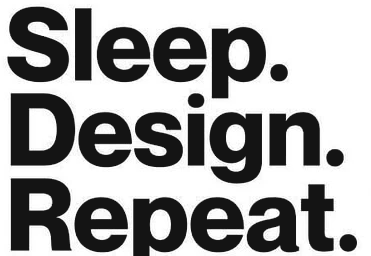
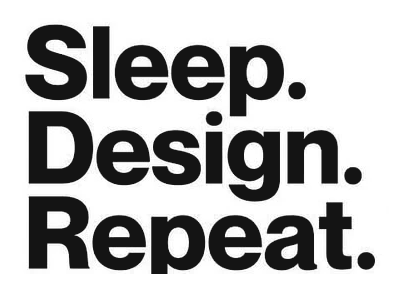
Tampere design page: white sticker borders and peel on hover
Bake a white die-cut edge into each sticker and add a corner peel:
the face loses its corner along a 45deg crease and a mirrored pale
back folds over it. Slight curl at rest, peels further on hover and
while dragging.

Claude-Session: https://claude.ai/code/session_01VkNXkYhNUFVsheW2ZXUG2V

diff --git a/tampere-design-page/index.html b/tampere-design-page/index.html
@@ -130,20 +130,34 @@ body { font: 400 17px/1.55 var(--f-body); -webkit-font-smoothing: antialiased; }
 
 /* scattered things */
 .thing { position: absolute; z-index: 1; }
-/* stickers: cut straight from the reference sheet, so they keep their own colours and outlines */
+/* stickers: cut straight from the reference sheet, with a white die-cut edge.
+   Peel: the face loses its bottom-right corner along a 45deg crease, and a mirrored
+   copy of the sticker (its pale back) is folded over that crease. --d is how far the
+   crease sits from the corner; it grows on hover and while dragging. */
+@property --d { syntax: "<length>"; inherits: true; initial-value: 0px; }
 .sticker {
-  --r: 0deg; --s: 1;
-  display: block; height: auto;
+  --r: 0deg; --s: 1; --d: calc(var(--W) * .09);
+  width: var(--W); height: calc(var(--W) * var(--ratio));
   transform: rotate(var(--r)) scale(var(--s)); transform-origin: center;
-  filter: drop-shadow(0 10px 14px rgba(20,20,20,.14));
-  cursor: grab; touch-action: none; user-select: none; -webkit-user-drag: none;
-  transition: filter .2s;
+  filter: drop-shadow(0 8px 12px rgba(20,20,20,.14));
+  cursor: grab; touch-action: none; user-select: none;
+  transition: --d .45s cubic-bezier(.3,.7,.3,1), filter .2s;
 }
+.sticker:hover, .sticker.dragging { --d: calc(var(--W) * .34); }
 .sticker.dragging { cursor: grabbing; filter: drop-shadow(0 18px 22px rgba(20,20,20,.22)); }
-.sticker.good { --r: 4deg; width: 230px; left: max(24px, 5vw); top: 48px; }
-.sticker.craft { --r: -5deg; width: 170px; left: max(32px, 8vw); bottom: 15%; }
-.sticker.sleep { --r: -3deg; width: 200px; right: max(24px, 7vw); top: 96px; filter: none; }
-.sticker.sleep.dragging { filter: none; }
+.sticker img { position: absolute; inset: 0; width: 100%; height: 100%; -webkit-user-drag: none; pointer-events: none; }
+.sticker .face { clip-path: polygon(0 0, 100% 0, 100% calc(100% - var(--d)), calc(100% - var(--d)) 100%, 0 100%); }
+.sticker .flap-shadow { position: absolute; inset: 0; filter: drop-shadow(-3px -3px 4px rgba(20,20,20,.18)); pointer-events: none; }
+.sticker .flap {
+  position: absolute; inset: 0; transform-origin: 0 0;
+  /* reflect across the crease x + y = W + H - d */
+  transform: translate(calc(var(--W) + var(--W) * var(--ratio) - var(--d)), calc(var(--W) + var(--W) * var(--ratio) - var(--d))) rotate(90deg) scaleX(-1);
+  clip-path: polygon(100% calc(100% - var(--d)), calc(100% - var(--d)) 100%, 100% 100%);
+}
+.sticker .flap img { filter: brightness(0) invert(.94); }
+.sticker.good { --W: 250px; --ratio: calc(372 / 451); --r: 4deg; left: max(24px, 5vw); top: 44px; }
+.sticker.craft { --W: 186px; --ratio: calc(446 / 339); --r: -5deg; left: max(32px, 8vw); bottom: 14%; }
+.sticker.sleep { --W: 222px; --ratio: calc(292 / 407); --r: -3deg; right: max(24px, 7vw); top: 90px; }
 
 /* other cursors */
 .cursor { position: absolute; left: 0; top: 0; z-index: 25; pointer-events: none; will-change: transform; }
@@ -220,9 +234,18 @@ body { font: 400 17px/1.55 var(--f-body); -webkit-font-smoothing: antialiased; }
 
 <header class="canvas" id="canvas">
 
-  <img class="thing sticker good" src="assets/good-design-only.webp" width="419" height="340" alt="" draggable="false">
-  <img class="thing sticker craft" src="assets/crafting-experience.webp" width="307" height="414" alt="" draggable="false">
-  <img class="thing sticker sleep" src="assets/sleep-design-repeat.webp" width="371" height="256" alt="" draggable="false">
+  <div class="thing sticker good" aria-hidden="true">
+    <img class="face" src="assets/good-design-only.webp" alt="" draggable="false">
+    <div class="flap-shadow"><div class="flap"><img src="assets/good-design-only.webp" alt="" draggable="false"></div></div>
+  </div>
+  <div class="thing sticker craft" aria-hidden="true">
+    <img class="face" src="assets/crafting-experience.webp" alt="" draggable="false">
+    <div class="flap-shadow"><div class="flap"><img src="assets/crafting-experience.webp" alt="" draggable="false"></div></div>
+  </div>
+  <div class="thing sticker sleep" aria-hidden="true">
+    <img class="face" src="assets/sleep-design-repeat.webp" alt="" draggable="false">
+    <div class="flap-shadow"><div class="flap"><img src="assets/sleep-design-repeat.webp" alt="" draggable="false"></div></div>
+  </div>
 
   <div class="hero" id="hero">
     <h1 class="title"><span class="slot pre" id="slot"><span class="sel" aria-hidden="true"><i></i><i></i><i></i><i></i></span><span class="tag" id="tag" aria-hidden="true">tap to switch</span><button class="hi" id="hi" type="button" aria-describedby="hi-hint" disabled><span class="word" id="word">Hi</span><span class="comma">,</span></button></span><span class="rest">designers</span><br> of Tampere</h1>
